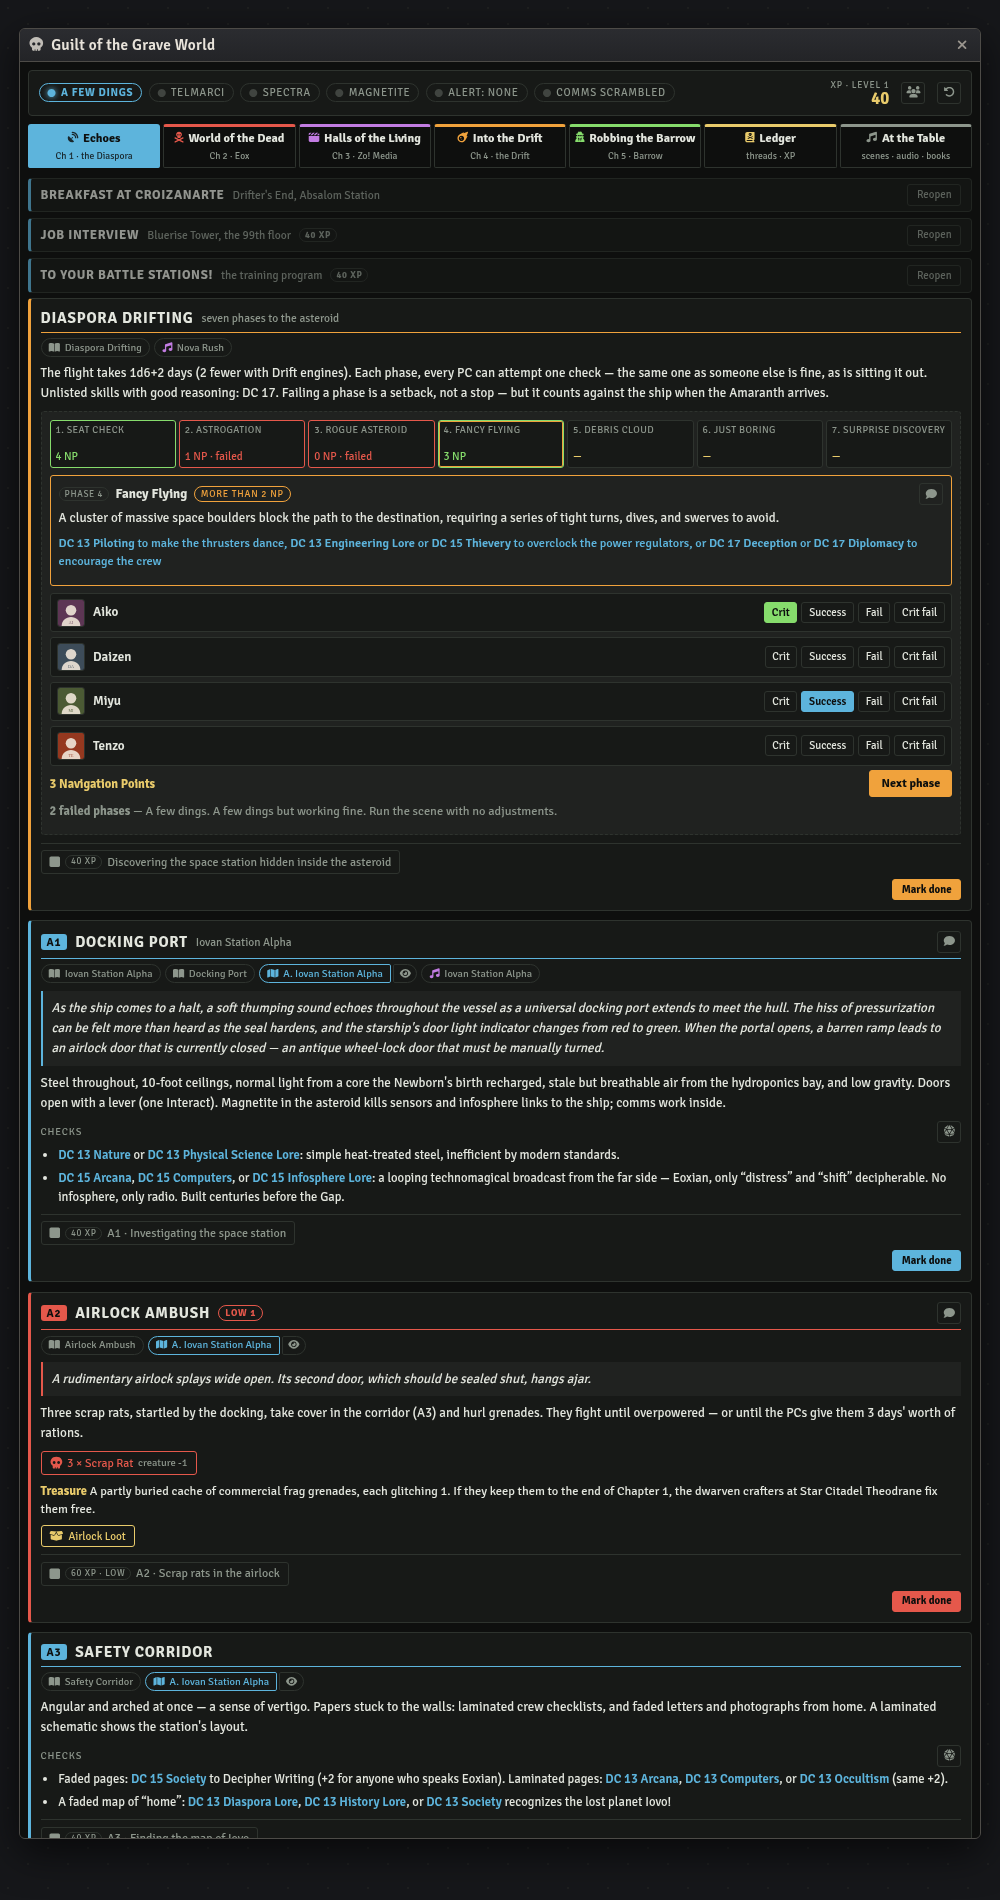
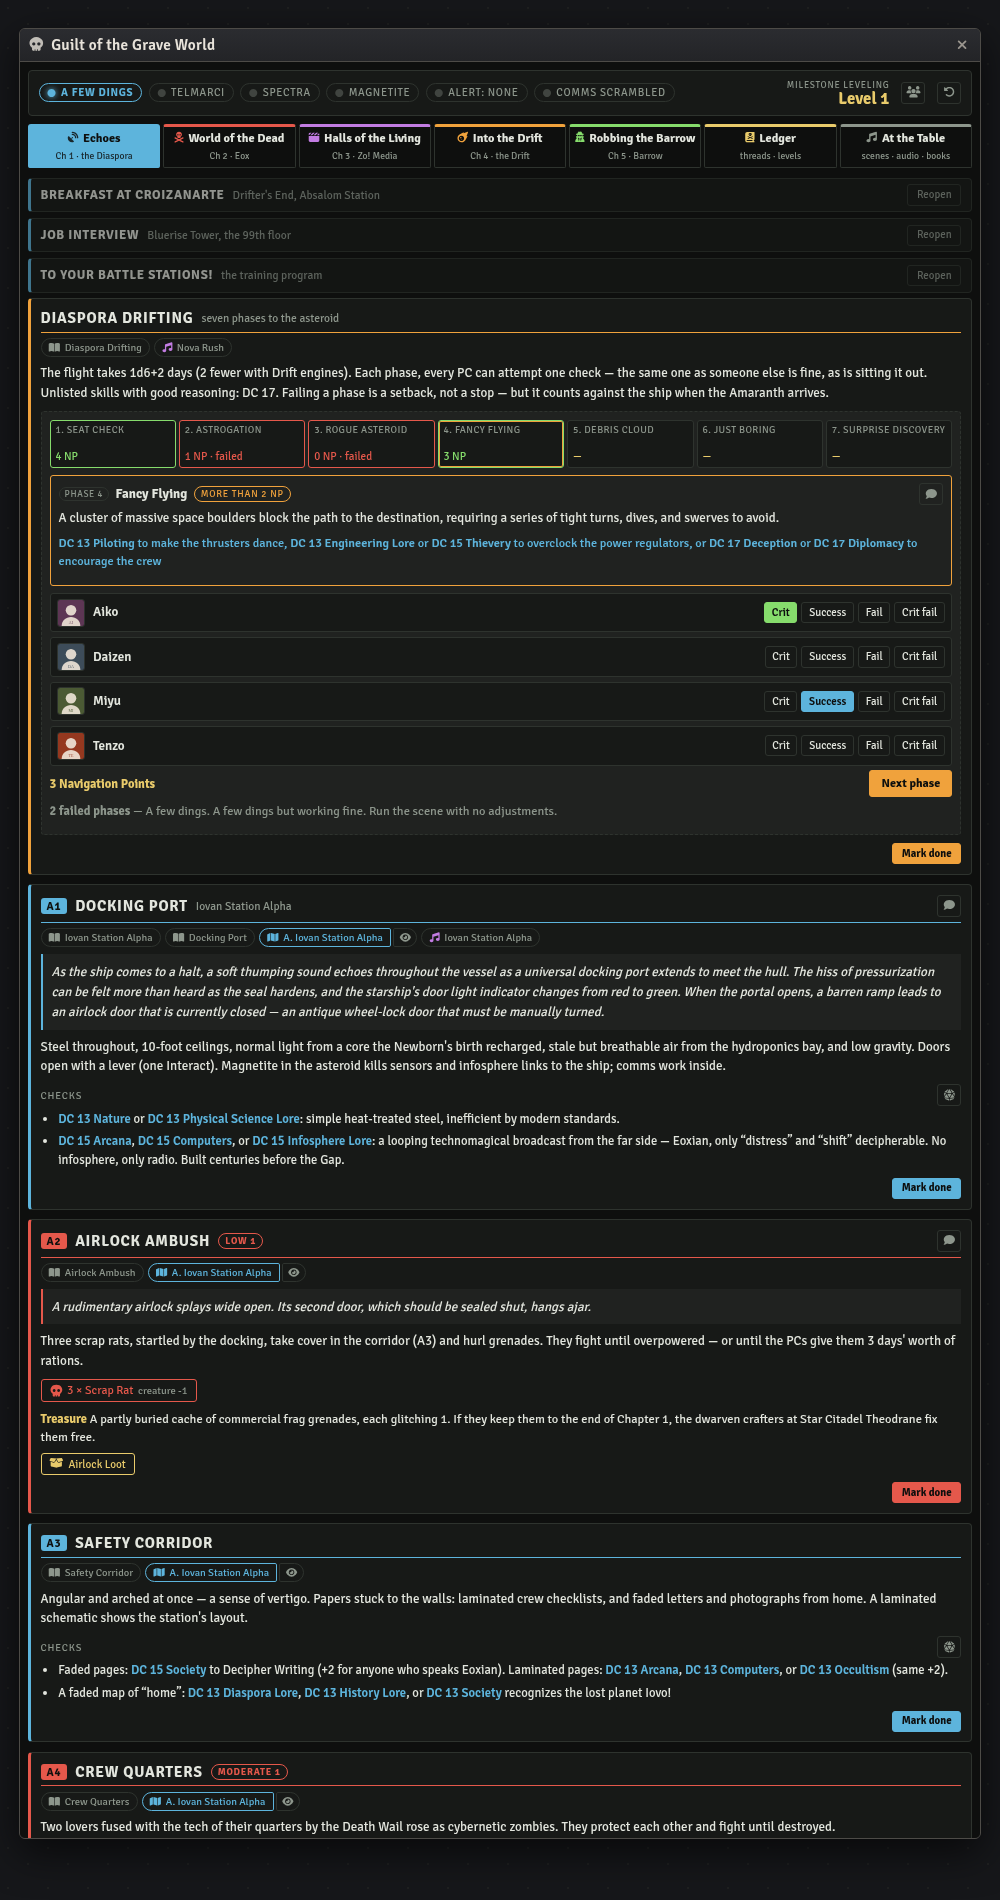
Guilt of the Grave World: level by milestone, with XP one setting away

diff --git a/macros/guilt-of-the-grave-world/grave-world-console.js b/macros/guilt-of-the-grave-world/grave-world-console.js
@@ -32,6 +32,10 @@ const GGW_KEY = "sf2eGuiltGraveWorld";
 const GGW_ID = `${GGW_NS}.${GGW_KEY}`;
 const MAX_PCS = 6;
 const LEVEL_AT = 1000;
+/* "milestone": the party levels where the book says to, ticked on the card
+   where it happens, and no XP anywhere. "xp": every award is a ticked box and
+   the level follows the total. */
+const LEVELING = "milestone";  // or "xp"
 
 const THEME = "eox";  // or "daylight"
 const PALETTES = {
@@ -301,7 +305,7 @@ const TABS = [
   { key: "ch3", label: "Halls of the Living", sub: "Ch 3 · Zo! Media", tone: "plum", icon: "fa-clapperboard" },
   { key: "ch4", label: "Into the Drift", sub: "Ch 4 · the Drift", tone: "ember", icon: "fa-meteor" },
   { key: "ch5", label: "Robbing the Barrow", sub: "Ch 5 · Barrow", tone: "moss", icon: "fa-user-secret" },
-  { key: "ledger", label: "Ledger", sub: "threads · XP", tone: "gold", icon: "fa-book-skull" },
+  { key: "ledger", label: "Ledger", sub: LEVELING === "xp" ? "threads · XP" : "threads · levels", tone: "gold", icon: "fa-book-skull" },
   { key: "table", label: "At the Table", sub: "scenes · audio · books", tone: "muted", icon: "fa-music" }
 ];
 
@@ -673,6 +677,13 @@ const AWARDS = [
   { key: "f_E9", ch: 5, label: "E9 · Kitthaine Kitar", threat: "Moderate",
     gate: (t) => t.s.picks.kitthaine !== "freed" ? "Only if they dropped the shield" : null },
   { key: "f_F", ch: 5, label: "F · Sanimus Slayn and his phantom gefs", threat: "Severe" }
+];
+/* The four places the book levels the party up. */
+const MILESTONES = [
+  { level: 2, card: "ch1end", label: "End of Chapter 1, at Star Citadel Theodrane" },
+  { level: 3, card: "ch2end", label: "End of Chapter 2, settling into the Halls of the Living" },
+  { level: 4, card: "ch3end", label: "End of Chapter 3, before leaving Eox" },
+  { level: 5, card: "E1", label: "Barrow's loading dock (E1), during the ten-minute decontamination" }
 ];
 const CHAPTER_NAMES = { 1: "Echoes from the Grave", 2: "World of the Dead", 3: "Halls of the Living", 4: "Into the Drift", 5: "Robbing the Barrow" };
 
@@ -1232,7 +1243,7 @@ const CARDS = [
     widget: "dock",
     checks: ["DC 19 Perception: a container stolen from an Ulrikka mining expedition, worth a 500-credit reward."],
     treasure: "A designer satchel (300 credits) holding a 3rd-rank spell gem of motivating ringtone, two tactical medpatches, two bone serums, and two applications of sprayflesh.",
-    note: "By now they should have enough XP for 5th level — let them level up during the 10 minutes.",
+    note: "This is where the book has them reach 5th level — let them level up during the 10 minutes.",
     xp: ["f_E1"] },
 
   { key: "E2", tab: "ch5", eid: "E2", title: "Central Hallway", level: "Low 5", tone: "rust",
@@ -1429,6 +1440,7 @@ function blankState(pcs) {
     v: 1, tab: "ch1", pcs,
     done: {},          // card key -> true
     xp: {},            // award key -> XP granted (stored, so it reverses exactly)
+    milestones: {},    // level -> true, for milestone leveling
     flags: {},         // yes/no threads: lingered, telmarci, keycards…
     picks: {},         // one-of-several choices: spectra, brawl, kitthaine…
     counters: {},      // TRACKS key -> number
@@ -1515,7 +1527,16 @@ class GraveWorld {
 
   /* ----- the XP ledger ----- */
   get xpTotal() { return Object.values(this.s.xp).reduce((n, v) => n + (Number(v) || 0), 0); }
-  get level() { return 1 + Math.floor(this.xpTotal / LEVEL_AT); }
+  get level() {
+    if (LEVELING !== "xp") return Math.max(1, ...MILESTONES.filter(m => this.s.milestones[m.level]).map(m => m.level));
+    return 1 + Math.floor(this.xpTotal / LEVEL_AT);
+  }
+  get nextMilestone() { return MILESTONES.find(m => !this.s.milestones[m.level]); }
+  toggleMilestone(lv) {
+    if (this.s.milestones[lv]) delete this.s.milestones[lv];
+    else { this.s.milestones[lv] = true; ui.notifications.info(`The party reaches level ${lv}.`); this.log(`Level ${lv}.`); }
+    this.touch();
+  }
   awardThreat(a) { return a.threatFn ? a.threatFn(this) : a.threat; }
   awardValue(a) {
     if (a.foes) return foesXp(FOES[a.foes], a.pl);
@@ -1981,9 +2002,11 @@ class GGWApp extends BaseApp {
           ${lamp(t.alert > 0, `Alert: ${ALERTS[t.alert]}`, "Barrow's alert level", t.alert >= 2 ? "rust" : "ember")}
           ${lamp(t.scrambled, "Comms scrambled", "The necroserver's security network is theirs — alerts and reinforcements are over", "plum")}
         </div>
-        <div class="xpbox" title="XP total — every ${LEVEL_AT} is a level">
+        ${LEVELING === "xp" ? `<div class="xpbox" title="XP total — every ${LEVEL_AT} is a level">
           <span>XP · level ${t.level}</span><b>${t.xpTotal}</b>
-        </div>
+        </div>` : `<div class="xpbox" title="${esc(t.nextMilestone ? `Next level-up: ${t.nextMilestone.label}` : "Every milestone reached")}">
+          <span>milestone leveling</span><b>Level ${t.level}</b>
+        </div>`}
         <button type="button" class="say" data-act="rescan" title="Re-detect the party" ${DIS(ro)}><i class="fa-solid fa-users"></i></button>
         <button type="button" class="say" data-act="reset" title="Reset the adventure" ${DIS(ro)}><i class="fa-solid fa-rotate-left"></i></button>
       </header>`;
@@ -2000,7 +2023,7 @@ class GGWApp extends BaseApp {
       <section class="panel done" style="--tone:var(--${c.tone})">
         <h3>${c.eid ? `<span class="eid">${c.eid}</span>` : ""}${c.title}
           ${c.sub ? `<small>${c.sub}</small>` : ""}
-          ${(c.xp ?? []).some(k => t.s.xp[k] != null) ? `<span class="pip">${(c.xp ?? []).reduce((n, k) => n + (t.s.xp[k] ?? 0), 0)} XP</span>` : ""}
+          ${LEVELING === "xp" && (c.xp ?? []).some(k => t.s.xp[k] != null) ? `<span class="pip">${(c.xp ?? []).reduce((n, k) => n + (t.s.xp[k] ?? 0), 0)} XP</span>` : ""}
           <button type="button" class="ghost sm reopen" data-act="done" data-k="${c.key}" ${DIS(ro)}>Reopen</button>
         </h3>
       </section>`;
@@ -2030,7 +2053,8 @@ class GGWApp extends BaseApp {
         ${c.note ? `<p class="note">${c.note}</p>` : ""}
         ${c.treasure ? `<p class="loot"><b>Treasure</b> ${hl(c.treasure)}</p>` : ""}
         ${this.lootRow(LINKS[c.key])}
-        ${c.xp ? `<div class="ticks">${c.xp.map(k => this.xpTick(k, ro)).join("")}</div>` : ""}
+        ${LEVELING === "xp" && c.xp ? `<div class="ticks">${c.xp.map(k => this.xpTick(k, ro)).join("")}</div>` : ""}
+        ${MILESTONES.filter(m => m.card === c.key).map(m => `<div class="ticks">${this.milestoneTick(m, ro)}</div>`).join("")}
         <div class="btnrow end">
           <button type="button" class="${done ? "ghost" : "primary"} sm" data-act="done" data-k="${c.key}" ${DIS(ro)}>
             ${done ? "Reopen" : "Mark done"}</button>
@@ -2099,6 +2123,13 @@ class GGWApp extends BaseApp {
       ${loot.map(n => `<button type="button" class="lootbtn" data-act="actor" data-id="${LOOT[n]}" data-k="${esc(n)}" title="Open the loot actor"><i class="fa-solid fa-box-open"></i>${esc(n)}</button>`).join("")}
       ${trk.map(k => `<button type="button" class="lootbtn trk" data-act="actor" data-id="${TRACKERS[k].id}" data-k="${esc(TRACKERS[k].name)}" title="The module's tracker actor, for showing the players. The console keeps its own count."><i class="fa-solid fa-chart-simple"></i>${esc(TRACKERS[k].name)}</button>`).join("")}
     </div>`;
+  }
+
+  milestoneTick(m, ro) {
+    const on = !!this.t.s.milestones[m.level];
+    return `<button type="button" class="tick ${on ? "on" : ""}" data-act="milestone" data-k="${m.level}" ${DIS(ro)}
+      title="${on ? "Reached — click to undo" : "Level the party up"}">
+      <i class="fa-solid ${on ? "fa-square-check" : "fa-square"}"></i> <span class="pip">level ${m.level}</span> ${m.label}</button>`;
   }
 
   xpTick(key, ro) {
@@ -2722,14 +2753,18 @@ class GGWApp extends BaseApp {
         <h3>Threads <small>what carries forward</small></h3>
         <div class="threads">${threads.map(([k, v, where]) => `<div class="thread ${v ? "on" : ""}"><b>${k}</b><span>${v ?? "—"}</span><em>${where}</em></div>`).join("")}</div>
       </section>
-      <section class="panel" style="--tone:var(--moss)">
+      ${LEVELING !== "xp" ? `<section class="panel" style="--tone:var(--moss)">
+        <h3>Milestones <small>the book's level-ups</small><span class="lvl">level ${t.level}</span></h3>
+        <p class="note">The party levels where the book says to. Each milestone also has its tick on the card where it happens.</p>
+        <div class="ticks col">${MILESTONES.map(m => this.milestoneTick(m, ro)).join("")}</div>
+      </section>` : `<section class="panel" style="--tone:var(--moss)">
         <h3>XP Ledger <small>the same for every PC</small><span class="lvl">level ${t.level}</span></h3>
         <div class="xpbar"><span style="width:${into / LEVEL_AT * 100}%"></span></div>
         <p class="note">${xp} XP — level ${t.level}, ${LEVEL_AT - into} to the next. The book expects 2nd level after Chapter 1, 3rd after Chapter 2, 4th after Chapter 3, and 5th in Barrow's loading dock. Encounter XP is the threat's budget (low 60, moderate 80, severe 120); trivial encounters are worked out from their foes' levels. Each award is stored as ticked, so un-ticking takes back exactly what was given.</p>
         ${[1, 2, 3, 4, 5].map(n => `
           <div class="subhead">Chapter ${n} · ${CHAPTER_NAMES[n]} · ${sum(n)} XP</div>
           <div class="ticks col">${chapter(n).map(a => this.xpTick(a.key, ro)).join("")}</div>`).join("")}
-      </section>
+      </section>`}
       ${s.log.length ? `<section class="panel"><h3>Log</h3><ul class="checks">${s.log.slice(0, 12).map(l => `<li>${esc(l)}</li>`).join("")}</ul></section>` : ""}`;
   }
 
@@ -2805,6 +2840,7 @@ class GGWApp extends BaseApp {
       }
       else if (a === "done") t.toggleDone(k);
       else if (a === "xp") t.toggleXp(k);
+      else if (a === "milestone") t.toggleMilestone(Number(k));
       else if (a === "flag") t.toggleFlag(k);
       else if (a === "pick") t.pick(k, v);
       else if (a === "bump") t.bump(k, n);

diff --git a/tools/preview/fixtures.js b/tools/preview/fixtures.js
@@ -473,6 +473,7 @@ globalThis.FIXTURES = {
   "graveworld-ledger": {
     "world.sf2eGuiltGraveWorld": {
       tab: "ledger",
+      milestones: { 2: true, 3: true, 4: true },
       flags: { lingered: true, signed: true, telmarci: true, scanned: true, aaNW: true, aaNE: true, aaSE: true },
       picks: { marauders: "escaped", shuttle: "landed", spectra: "peaceful", bomb: "defused", brawl: "brawl" },
       trek: { lost: "s", events: { pit: 2, horde: 1, homestead: 3 } },

diff --git a/macros/guilt-of-the-grave-world/README.md b/macros/guilt-of-the-grave-world/README.md
@@ -42,7 +42,7 @@ all of it, scene by scene, in seven tabs:
   and its caldera, the Amaranth's return, the Cosmic Corsairs, and the Defiance.
 - **Robbing the Barrow**: Chapter 5. Silent Running, the spacewalk, the necroturrets, the
   cargo door, the auxiliary research center from E1 to E10, Sanimus Slayn, and the getaway.
-- **Ledger**: every thread that carries forward, and the XP ledger.
+- **Ledger**: every thread that carries forward, and the party's level-ups.
 - **At the Table**: every scene and Paizo map, all three playlists, the module's macros, and
   its journals.
 
@@ -114,23 +114,39 @@ ruse.
 
 ![Barrow on preliminary alert, Nobrom won over](../../screenshots/guilt-of-the-grave-world/grave-world-barrow.png)
 
-## The XP ledger
+## Leveling
 
-The ledger has one ticked box per award. That covers every story award the book prints, plus
-each encounter's XP. Ticking a box **stores the amount granted**, so un-ticking takes back
-exactly that, even if the encounter's threat has changed since. Some awards stay greyed out
-until they're earned:
+The console uses **milestone leveling** by default. The party levels up where the book says
+to, and there's no XP anywhere. The four level-ups are ticked on the card where each happens,
+and they're also listed on the Ledger tab:
+
+- 2nd at the end of Chapter 1;
+- 3rd at the end of Chapter 2;
+- 4th at the end of Chapter 3;
+- 5th in Barrow's loading dock.
+
+The header shows the party's level, and hovering over it names the next milestone.
+
+![The Ledger near the end of Chapter 4](../../screenshots/guilt-of-the-grave-world/grave-world-ledger.png)
+
+### Playing with XP instead
+
+Near the top of the file:
+
+```js
+const LEVELING = "milestone";  // or "xp"
+```
+
+Set it to `"xp"` and every scene gets ticked boxes for its awards. That covers every story
+award the book prints, plus each encounter's XP. The Ledger becomes an XP ledger, and the
+level follows the total, one level per 1,000 XP. Ticking a box **stores the amount granted**,
+so un-ticking takes back exactly that, even if the encounter's threat has changed since.
+Some awards stay greyed out until they're earned:
 
 - scanning the Amaranth;
 - the 7-Cooking-Point bonus;
 - the spectra's fight XP versus their peaceful-meeting XP;
 - Kitthaine, but only if the party dropped the shield on their cell.
-
-The level shown is every 1,000 XP. The book expects 2nd level after Chapter 1, 3rd after
-Chapter 2, 4th after Chapter 3, and 5th in Barrow's loading dock. The ledger's totals land
-close to that.
-
-![The Ledger near the end of Chapter 4](../../screenshots/guilt-of-the-grave-world/grave-world-ledger.png)
 
 ## The Foundry module
 
@@ -175,7 +191,7 @@ search, first in this world and then in every Actor compendium, trying sf2e pack
 
 ## Not in the book
 
-- **Encounter XP.** The book prints each encounter's threat, not its XP. The console awards the
+- **Encounter XP**, with `LEVELING = "xp"`. The book prints each encounter's threat, not its XP. The console awards the
   threat's budget for four PCs: low 60, moderate 80, severe 120. Trivial encounters have no
   fixed budget, so their XP is worked out from the module actors' levels. The soufflé
   surprises are labelled "Hazard 3" rather than a threat; they're worked out the same way, as

diff --git a/CHANGELOG.md b/CHANGELOG.md
@@ -1,5 +1,17 @@
 # Changelog
 
+## 2026-10-07 21:45
+
+### Changed
+- **Guilt of the Grave World — milestone leveling by default.** Before this, the console
+  only levelled the party from an XP total. That meant ticking an award box on nearly every
+  scene, which is noise for a table that levels by milestone. A new `LEVELING` setting at
+  the top of the file defaults to `"milestone"`. In that mode the XP boxes are gone, and the
+  book's four level-ups are ticks instead: the end of Chapters 1, 2, and 3, and Barrow's
+  loading dock. Each tick sits on the card where it happens, and all four are listed on the
+  Ledger tab. The header shows the level, and hovering over it names the next milestone.
+  Setting it to `"xp"` brings back the XP ledger exactly as it was.
+
 ## 2026-10-07 20:55
 
 ### Added

diff --git a/README.md b/README.md
@@ -282,7 +282,8 @@ the ship damage it leaves for the Amaranth fight. It replays both chases from ea
 results, and adds up the Atraskien Shelf trek in hours. It covers both influence encounters,
 every Cooking Point on Sabotage Soufflé and its sixteen graves, the turrets that decide how
 the getaway shuttle leaves, and the corsairs' parley. It also tracks Barrow's alert level,
-which sets most of Chapter 5. An XP ledger makes each award a ticked box.
+which sets most of Chapter 5. Leveling is by milestone, at the book's four level-ups; an
+XP ledger is one setting away.
 Each scene links into the Guilt of the Grave World Foundry module: its journal pages,
 encounter map and Paizo map, ambience, scene macros, NPC portraits, and art to show the
 players.
